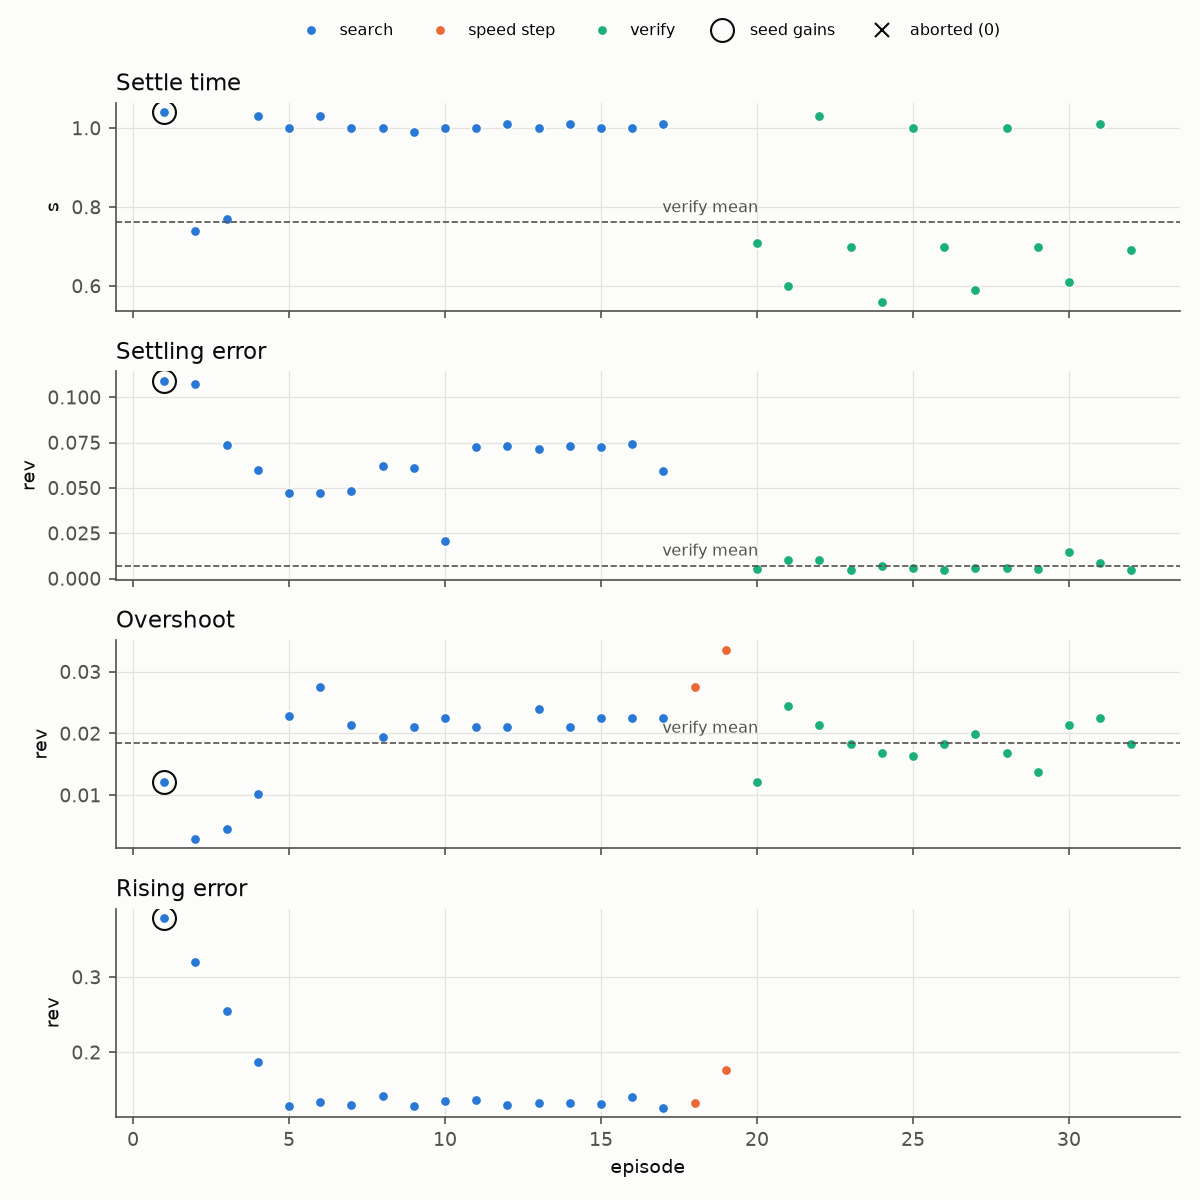
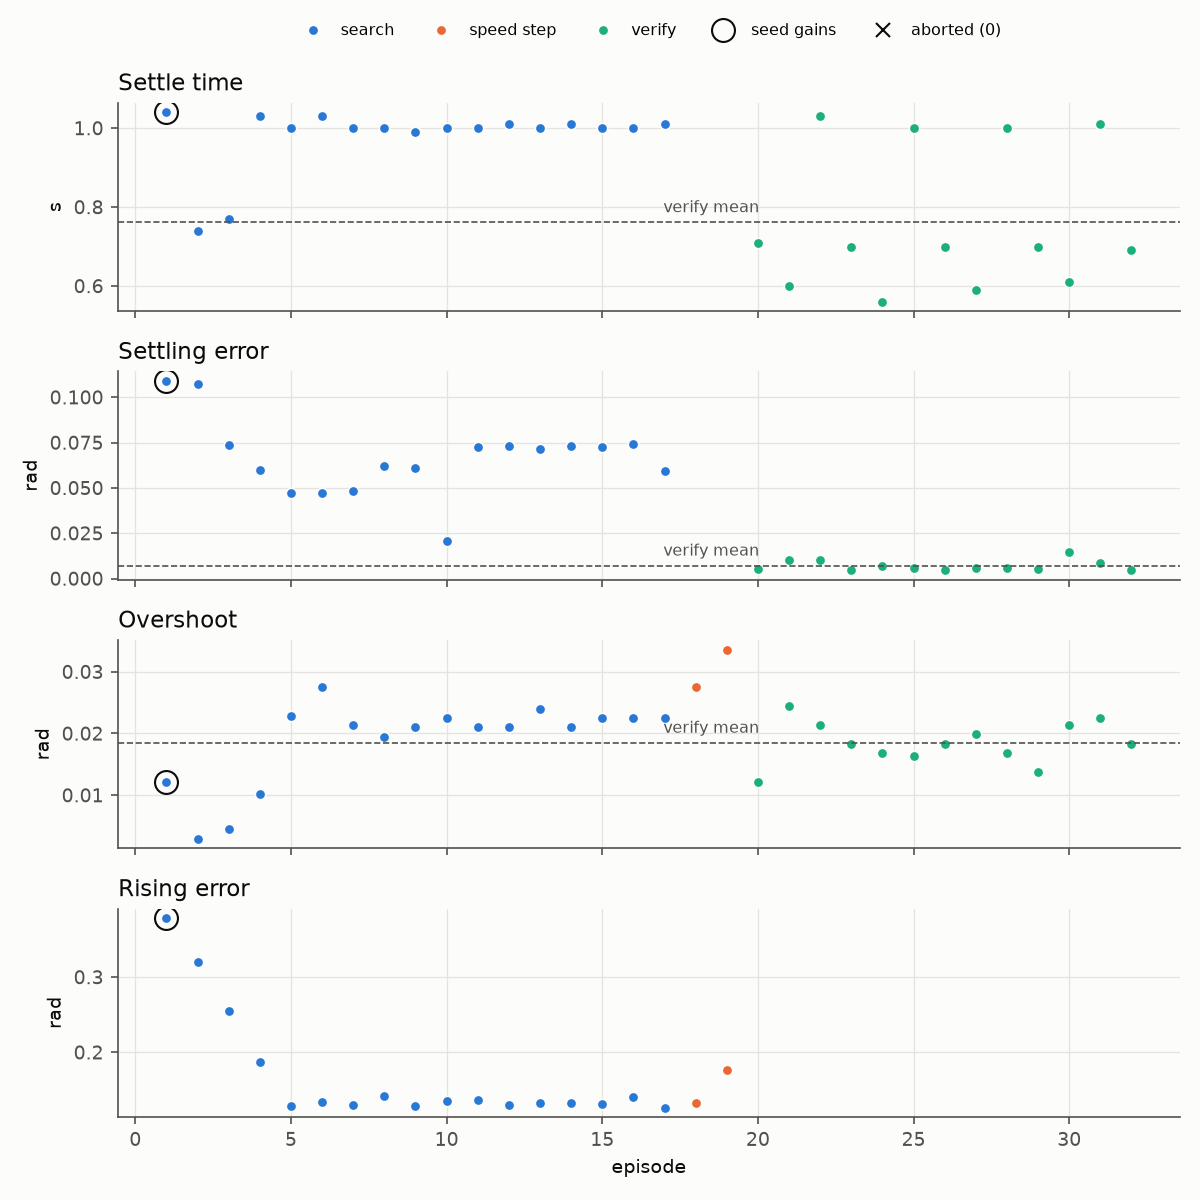
llm-tuning-agent: error columns in rad, not rev
The tuner computes overshoot, settling error and rising error from the
joint's reference and measured position, which the robot sends in
mechanism units: radians for the shoulder. Rename the CSV columns to
overshoot_rad, settling_error_rad and rising_error_rad, and use rad in
the script's output, the plot labels and the READMEs. The numbers are
unchanged.

diff --git a/llm-tuning-agent/replay/analyze_tuning.py b/llm-tuning-agent/replay/analyze_tuning.py
@@ -27,9 +27,9 @@ DEFAULT_OUT = os.path.join(HERE, "replay_out")
 FIG_DPI = 150
 TEXT_COLUMNS = ("phase", "gain_set")
 METRICS = (("settle_time_s", "settle time", "s", 2),
-           ("settling_error_rev", "settling error", "rev", 4),
-           ("overshoot_rev", "overshoot", "rev", 4),
-           ("rising_error_rev", "rising error", "rev", 3))
+           ("settling_error_rad", "settling error", "rad", 4),
+           ("overshoot_rad", "overshoot", "rad", 4),
+           ("rising_error_rad", "rising error", "rad", 3))
 PHASES = (("search", "search"), ("speed", "speed step"), ("verify", "verify"))
 
 

diff --git a/llm-tuning-agent/README.md b/llm-tuning-agent/README.md
@@ -47,7 +47,7 @@ mount), with a note to re-validate it on a rigid mount.
 ## Replay
 
 One bench session: 32 experiments; settling time 1.04 → 0.76 s; steady (settling) error 0.109 →
-0.0071 rev; overshoot 0.0122 → 0.0185 rev, which rose. Each pair is the episode with the starting
+0.0071 rad; overshoot 0.0122 → 0.0185 rad, which rose. Each pair is the episode with the starting
 gains against the mean of the 13 verify episodes with the final gains.
 
 `replay/shoulder-session-episodes.csv` is a bench tuner session log, not a robot recording: the
@@ -67,13 +67,14 @@ results, not the decisions of the coding agent described above, if any were made
 | `sweep` | | Sweep number (1-4) for search episodes; empty otherwise |
 | `gain_set` | | `seed` for the episode with the starting gains, `final` for the episodes with the final gains; empty otherwise |
 | `aborted` | 0/1 | Whether the tuner aborted the episode |
-| `overshoot_rev` | rev | Overshoot |
+| `overshoot_rad` | rad | Overshoot |
 | `settle_time_s` | s | Settle time; not logged for speed steps |
-| `settling_error_rev` | rev | Settling error; not logged for speed steps |
-| `rising_error_rev` | rev | Error while the joint is moving; not logged for verify episodes |
+| `settling_error_rad` | rad | Settling error; not logged for speed steps |
+| `rising_error_rad` | rad | Error while the joint is moving; not logged for verify episodes |
 
-Errors are in mechanism rotations (rev): the tuner logs its velocities in rev/s and its errors
-without a unit. An empty cell is a value the tuner did not log for that kind of episode.
+Errors are in radians of shoulder angle: the tuner computes them from the joint's reference and
+measured position, which the robot sends in the joint's mechanism units (radians for the
+shoulder). An empty cell is a value the tuner did not log for that kind of episode.
 
 Read it with Python's standard library, from the repository root:
 
@@ -103,17 +104,17 @@ Output (0.5 s):
 session: shoulder-session-episodes.csv   32 episodes: 17 search (4 sweeps), 2 speed steps, 13 verify; 0 aborted
 seed (episode 1) against the mean of the 13 verify episodes (final gains):
   settle time     1.04 s -> 0.76 s   (fell)
-  settling error  0.1090 rev -> 0.0071 rev   (fell)
-  overshoot       0.0122 rev -> 0.0185 rev   (rose)
-  rising error    0.378 rev -> 0.133 rev   (verify episodes do not log it; episode 18, the first speed step with the final gains)
-final gains in a search episode (episode 17, the same episode type as the seed): settle time 1.01 s, settling error 0.0595 rev, overshoot 0.0225 rev, rising error 0.127 rev
+  settling error  0.1090 rad -> 0.0071 rad   (fell)
+  overshoot       0.0122 rad -> 0.0185 rad   (rose)
+  rising error    0.378 rad -> 0.133 rad   (verify episodes do not log it; episode 18, the first speed step with the final gains)
+final gains in a search episode (episode 17, the same episode type as the seed): settle time 1.01 s, settling error 0.0595 rad, overshoot 0.0225 rad, rising error 0.127 rad
 wrote llm-tuning-agent/replay/replay_out/episodes.png
 ```
 
 The overshoot rose: against the seed episode, the verify episodes settle sooner and closer, and
 overshoot more. The verify episodes log fewer outcomes than the search episodes and may not be the
 same test: with the same final gains, the last search episode logged a settle time of 1.01 s and a
-settling error of 0.0595 rev, against 1.04 s and 0.1090 rev for the starting gains in the same
+settling error of 0.0595 rad, against 1.04 s and 0.1090 rad for the starting gains in the same
 kind of episode. The verify episodes do not log the rising error, so its "after" value comes from
 the first speed step, which ran the final gains.
 

diff --git a/README.md b/README.md
@@ -168,7 +168,7 @@ every push and pull request; the badge at the top shows its latest result.
 | [control/chassis](control/chassis/#analysis) | The path follower's target and measured pose, the commanded and measured chassis velocity | position error RMS 0.227 m, max 0.482 m, over 6.16 s of path following; speed error RMS 0.439 m/s; up to 3.91 m/s |
 | [udp-bridge](udp-bridge/#analysis) | The logged clock-sync estimate | offset 2.845 s → 2.827 s over 154 s, round trip median 0.34 ms |
 | [sim-io-layer](sim-io-layer/#analysis) | The measured and reference joints and phase events of the simulated and the real whole-body cycle | sim − real RMS in TASK q1 0.056 rad, d 0.017 m, q3 0.041 rad; latch → DRIVE 2.355 s against 2.380 s |
-| [llm-tuning-agent](llm-tuning-agent/#analysis) | Each episode's logged outcome in one bench session | 32 experiments, 0 aborted; settle time 1.04 → 0.76 s, settling error 0.109 → 0.0071 rev, overshoot 0.0122 → 0.0185 rev |
+| [llm-tuning-agent](llm-tuning-agent/#analysis) | Each episode's logged outcome in one bench session | 32 experiments, 0 aborted; settle time 1.04 → 0.76 s, settling error 0.109 → 0.0071 rad, overshoot 0.0122 → 0.0185 rad |
 
 ## How to read this repo
 
